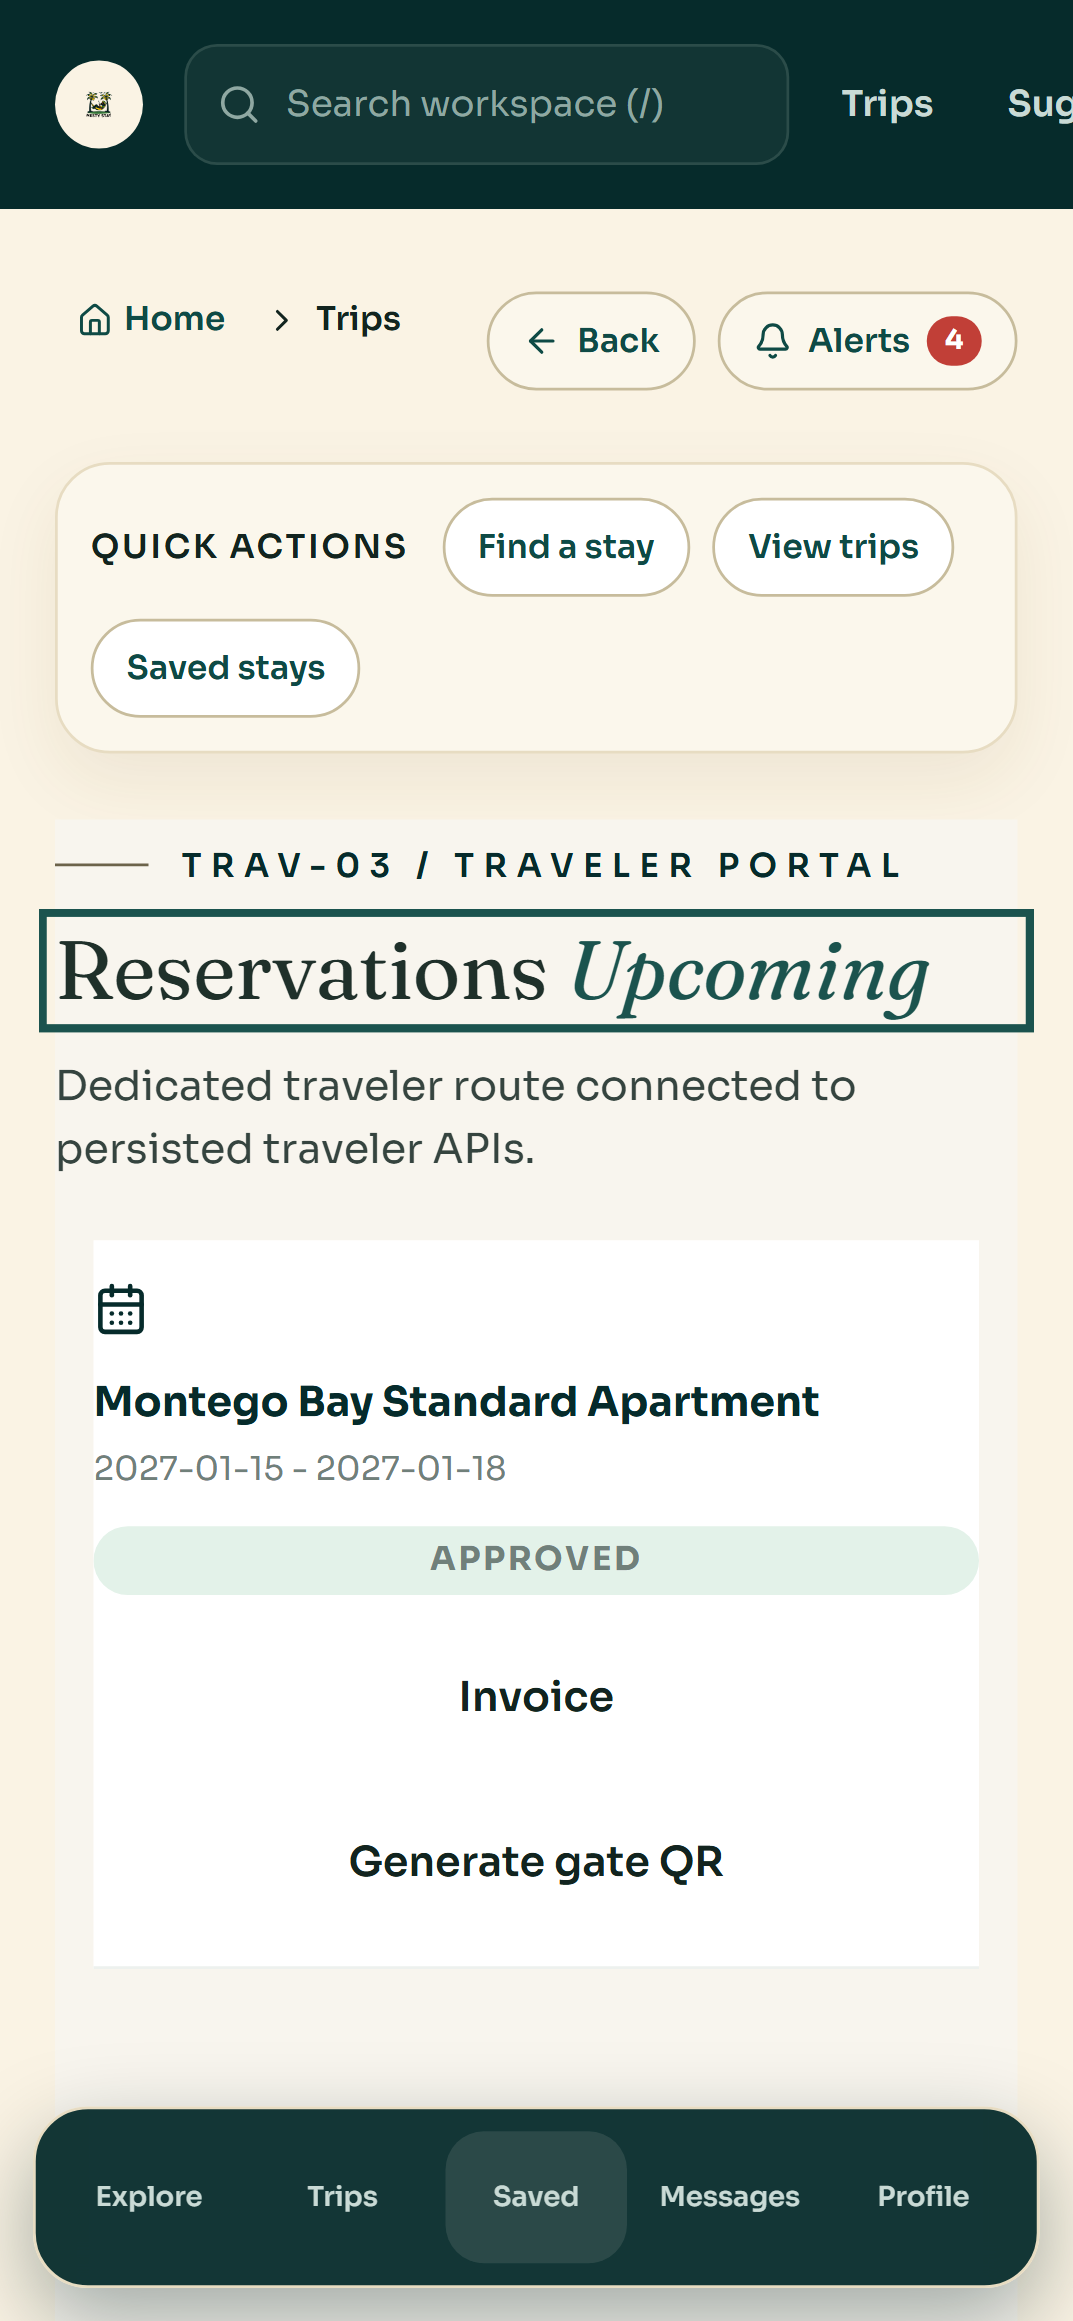
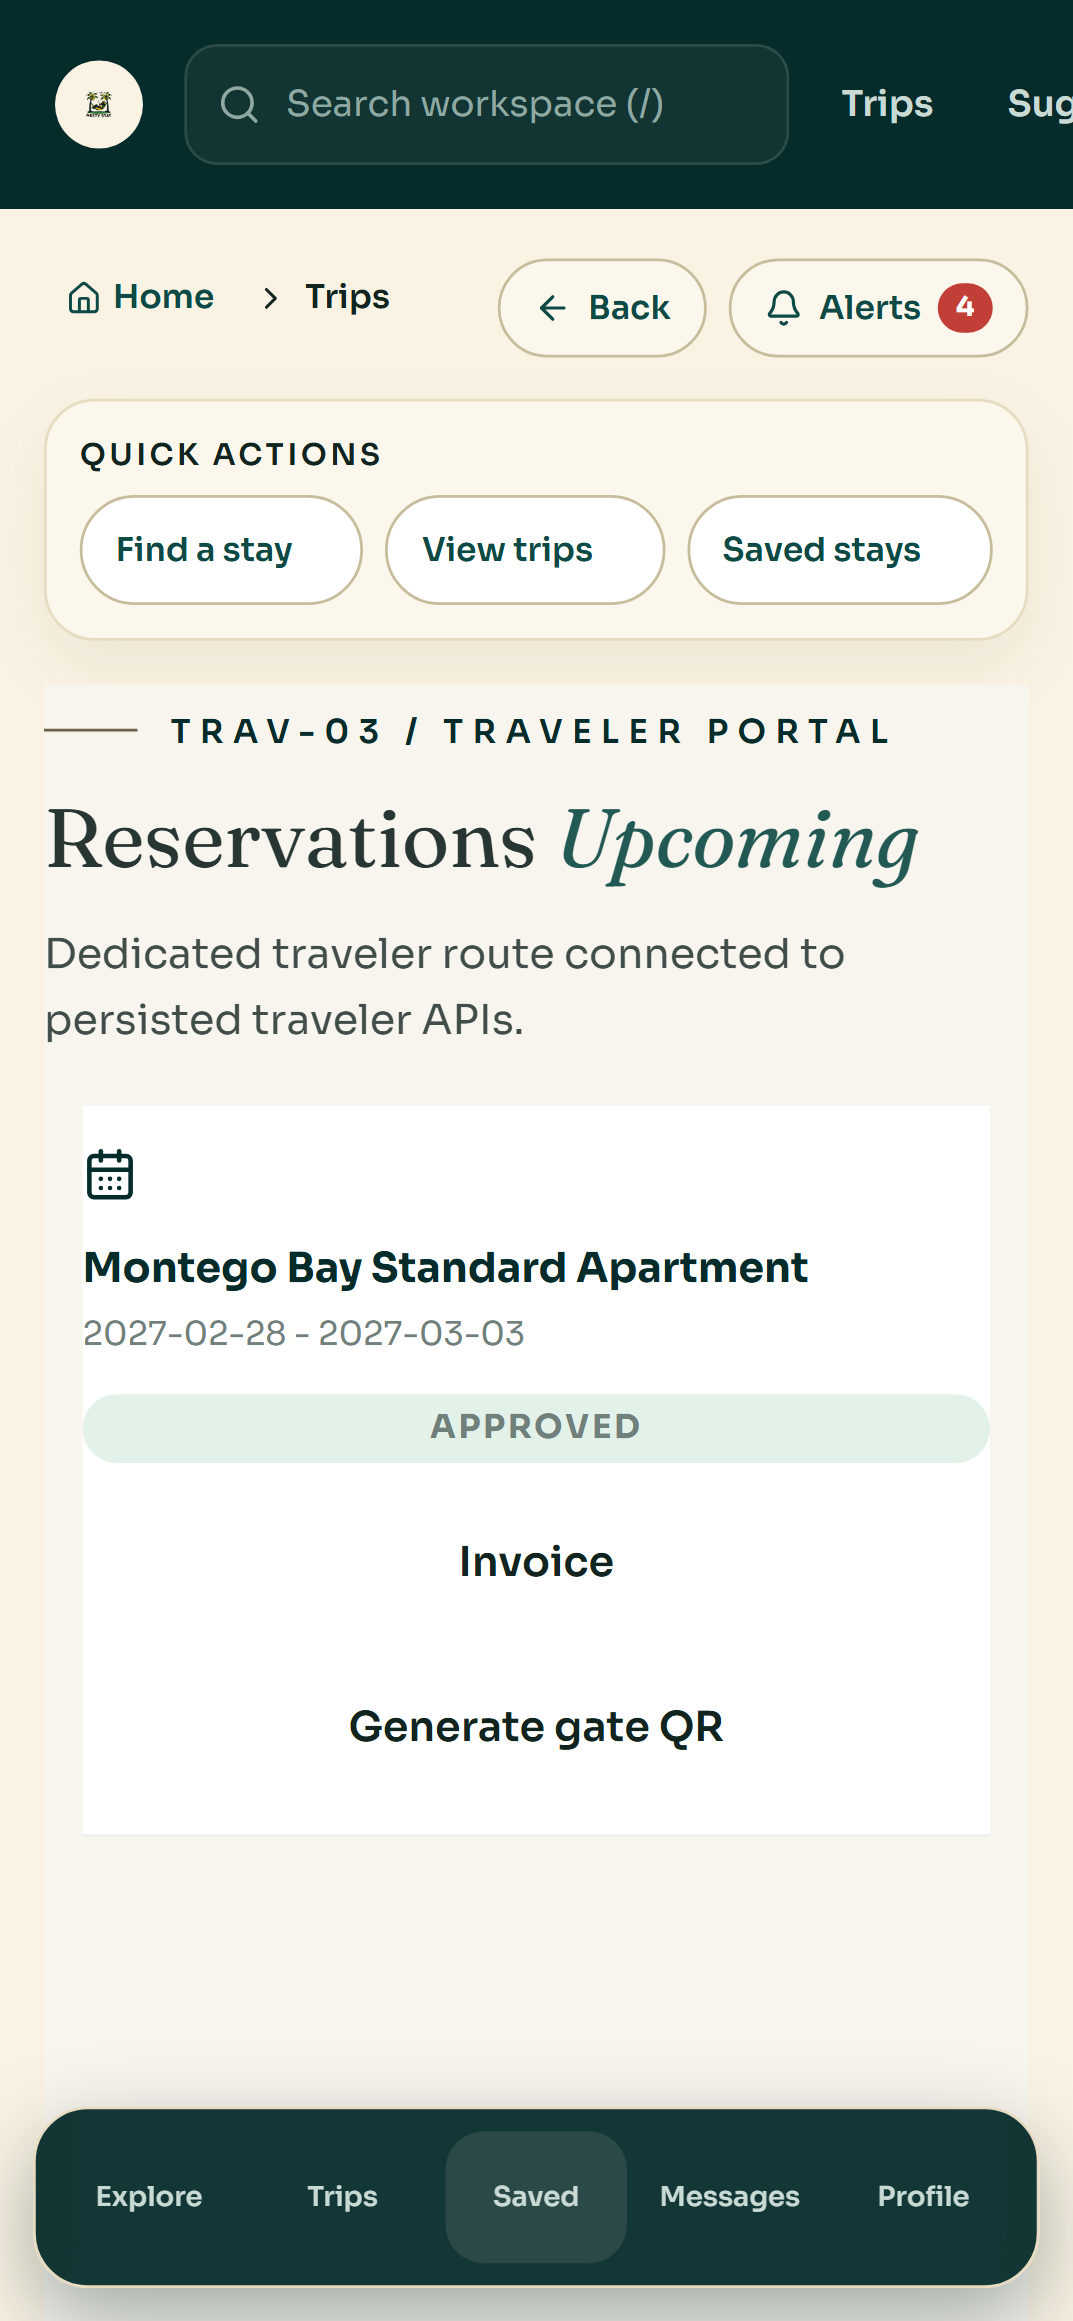
fix: refine responsive workspace surfaces

diff --git a/frontend/src/index.css b/frontend/src/index.css
@@ -109,6 +109,18 @@ body {
   outline: none;
 }
 
+/* Route headings receive programmatic focus after SPA navigation for screen
+   readers. They are landmarks, not controls, so the keyboard ring should not
+   turn the entire heading into a heavy outlined box. Interactive descendants
+   keep their normal focus treatment. */
+[data-route-heading]:focus,
+main > h1:focus,
+main > h2:focus,
+.workspace-main h1:focus,
+.workspace-main h2:focus {
+  outline: none;
+}
+
 /* Shared legacy surfaces get the same responsive treatment as DS v2 cards. */
 .card-box {
   border: 1px solid var(--color-sand-border, #e7dcc2);
@@ -117,6 +129,35 @@ body {
   box-shadow: var(--shadow-card, 0 10px 26px rgb(96 74 20 / 8%));
   padding: 1.25rem;
 }
+
+/* Shared legacy page recipe. The older feature screens use these semantic
+   hooks; styling them here keeps every workspace on the same calm, native-app
+   surface language while preserving each screen's existing behavior. */
+.page-container {
+  width: 100%;
+  max-width: 1120px;
+  margin-inline: auto;
+}
+
+.page-header {
+  display: flex;
+  flex-direction: column;
+  gap: 0.45rem;
+}
+
+.page-header h2,
+.page-header h3 {
+  margin: 0;
+  color: var(--color-ink, #12241f);
+  font-family: var(--font-display, Georgia, serif);
+  font-weight: 500;
+  letter-spacing: -0.015em;
+  line-height: 1.1;
+}
+
+.page-header h2 { font-size: clamp(2rem, 4vw, 2.65rem); }
+.page-header h3 { font-size: 1.45rem; }
+.page-header .subtext { max-width: 44rem; margin: 0.15rem 0 0; line-height: 1.55; }
 
 .card-box:has(> table.table-styled) {
   overflow-x: auto;
@@ -161,6 +202,99 @@ body {
 }
 
 @media (max-width: 767px) {
+  html {
+    scroll-padding-top: 68px;
+  }
+
+  body {
+    -webkit-font-smoothing: antialiased;
+  }
+
+  .workspace-main {
+    padding: 1rem 1rem calc(7rem + env(safe-area-inset-bottom)) !important;
+  }
+
+  .workspace-toolbar {
+    margin-bottom: 0.8rem !important;
+    gap: 0.6rem !important;
+  }
+
+  .workspace-toolbar > div {
+    flex-wrap: wrap;
+  }
+
+  .quick-actions {
+    margin-bottom: 1rem !important;
+    gap: 0.5rem !important;
+    padding: 0.75rem !important;
+    border-radius: 1.15rem;
+  }
+
+  .quick-actions > span {
+    flex-basis: 100%;
+    margin-right: 0;
+    font-size: 0.68rem;
+    letter-spacing: 0.12em;
+  }
+
+  .quick-actions > a {
+    flex: 1 1 auto;
+    min-height: 2.5rem;
+    padding-inline: 0.75rem;
+  }
+
+  .page-container {
+    padding-top: 0.25rem !important;
+    padding-bottom: 1rem !important;
+  }
+
+  .page-header {
+    margin-bottom: 1rem !important;
+    gap: 0.35rem;
+  }
+
+  .page-header h2 { font-size: clamp(1.85rem, 8vw, 2.35rem); }
+  .page-header h3 { font-size: 1.35rem; }
+  .page-header .subtext { font-size: 0.875rem; }
+
+  .card-box {
+    padding: 1rem;
+    border-radius: 1.1rem;
+    box-shadow: 0 8px 22px rgb(96 74 20 / 7%);
+  }
+
+  .layout-grid-2-1 {
+    grid-template-columns: minmax(0, 1fr) !important;
+    gap: 0.75rem !important;
+  }
+
+  .sticky-top {
+    position: static !important;
+  }
+
+  .tab-nav-bar {
+    margin-bottom: 1rem !important;
+    overflow-x: auto;
+    flex-wrap: nowrap !important;
+    padding-bottom: 0.45rem;
+    scrollbar-width: none;
+  }
+
+  .tab-nav-bar::-webkit-scrollbar { display: none; }
+  .tab-nav-bar .tab-btn { flex: 0 0 auto; min-height: 2.5rem; padding-inline: 0.75rem; }
+
+  .info-row {
+    display: grid;
+    grid-template-columns: minmax(0, 0.8fr) minmax(0, 1.2fr);
+    gap: 0.6rem;
+    align-items: start;
+    overflow-wrap: anywhere;
+  }
+
+  .workspace-mobile-nav {
+    bottom: max(0.75rem, env(safe-area-inset-bottom));
+  }
+
   .responsive-table-cards {
     overflow: visible;
   }

diff --git a/frontend/src/components/ui/PageHeader.tsx b/frontend/src/components/ui/PageHeader.tsx
@@ -43,7 +43,7 @@ export function PageHeader({
 }) {
   const reducedMotion = useReducedMotion();
   return (
-    <header className="flex flex-wrap items-end justify-between gap-6">
+    <header className="flex flex-wrap items-end justify-between gap-4 sm:gap-6">
       <div className="max-w-2xl">
         <motion.span
           animate={{ opacity: 1, y: 0 }}
@@ -77,7 +77,7 @@ export function PageHeader({
       {actions && (
         <motion.div
           animate={{ opacity: 1, y: 0 }}
-          className="flex flex-wrap items-center gap-3"
+          className="flex w-full flex-wrap items-center gap-2 sm:w-auto sm:gap-3"
           initial={reducedMotion ? false : { opacity: 0, y: 16 }}
           transition={{ duration: 0.6, delay: 0.3 }}
         >

diff --git a/frontend/src/components/layout/WorkspaceFrame.tsx b/frontend/src/components/layout/WorkspaceFrame.tsx
@@ -56,7 +56,7 @@ function Breadcrumbs({ pathname, screenId }: { pathname: string; screenId: strin
   const active = getScreenDefinition(screenId)?.navigation;
   const current = active?.label ?? prettyRoute(pathname);
   return (
-    <nav aria-label="Breadcrumb" className="mb-4 flex flex-wrap items-center gap-1.5 text-xs text-sand-600">
+    <nav aria-label="Breadcrumb" className="mb-2 flex flex-wrap items-center gap-1.5 text-xs text-sand-600 sm:mb-4">
       <AppLink className="inline-flex min-h-8 items-center gap-1 rounded-pill px-2 font-semibold text-deep-hover hover:bg-shell" href="/">
         <Home aria-hidden="true" size={13} /> Home
       </AppLink>
